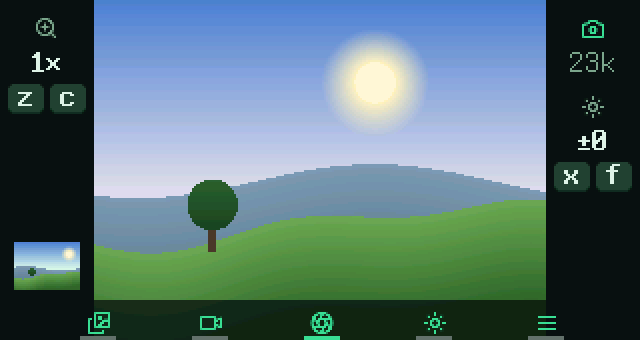
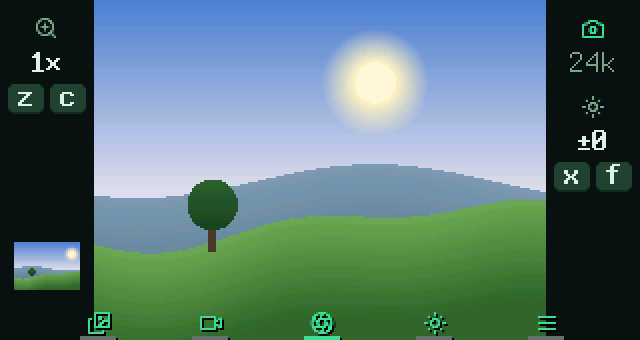
Camera's chips stand on the picture; the Store is called what it is
Over a picture the action bar has no dark band: each chip's word, icon
and bar cast a 1 px shadow. The README calls the Store a better one on
M5's catalog, not our own.

Changed region(s): [[0.125, 0.8824, 0.875, 1.0], [0.0, 0.7353, 0.125, 0.7941], [0.9062, 0.1471, 0.9375, 0.2059]]

diff --git a/crates/gh0st-ui/src/widgets.rs b/crates/gh0st-ui/src/widgets.rs
@@ -617,6 +617,12 @@ fn chip_ink(c: &mut Canvas, t: &Theme, r: Rect, ch: &Chip, ink: Color, icon_ink:
 /// the main action, red for danger. Pressed, the bar thickens and the word
 /// drops a row, as a key does. `w` is the room it may take.
 pub fn chip(c: &mut Canvas, t: &Theme, cx: i32, top: i32, ch: &Chip, w: i32) {
+    chip_on(c, t, cx, top, ch, w, false);
+}
+
+/// A chip; with `shadow`, its word, icon and bar cast a 1 px shadow, so it
+/// reads straight on a picture with nothing behind it.
+fn chip_on(c: &mut Canvas, t: &Theme, cx: i32, top: i32, ch: &Chip, w: i32, shadow: bool) {
     // A chip with a word shows the word alone: only a chip with no word
     // shows its icon.
     let bare;
@@ -640,9 +646,16 @@ pub fn chip(c: &mut Canvas, t: &Theme, cx: i32, top: i32, ch: &Chip, w: i32) {
         Look::Pressed => (k.fg, k.accent, k.accent, 3),
         Look::Busy => (k.muted, k.muted, k.muted, 2),
     };
+    let foot = top + t.m.chip_h + t.m.chip_foot;
+    if shadow {
+        let plate = theme::PICTURE_PLATE;
+        let sr = Rect::new(r.x + 1, r.y + 1, r.w, r.h);
+        chip_ink(c, t, sr, ch, plate, plate);
+        let bw = t.m.chip_bar_w;
+        c.fill(Rect::new(cx - bw / 2 + 1, foot - 1, bw, 2), plate);
+    }
     chip_ink(c, t, r, ch, ink, icon_ink);
     // The bar's foot sits `chip_foot` under the chip, wherever it is drawn.
-    let foot = top + t.m.chip_h + t.m.chip_foot;
     let bw = t.m.chip_bar_w;
     if let Look::Hold(pc) = ch.look {
         // Held, the bar runs the chip's width and fills as the hold goes.
@@ -660,22 +673,21 @@ pub fn chip(c: &mut Canvas, t: &Theme, cx: i32, top: i32, ch: &Chip, w: i32) {
 pub fn action_bar(c: &mut Canvas, t: &Theme, chips: &[Chip; 5]) {
     crate::lint::chips([1, 2, 3].map(|i| !chips[i].is_empty()));
     c.clear(hint_rect(t), t.c.bg);
-    action_chips(c, t, chips);
+    action_chips(c, t, chips, false);
 }
 
-/// The action bar over a picture: the page's background, mostly opaque,
-/// so the chips read in every palette and the picture shows through.
+/// The action bar over a picture: nothing behind the chips, so the
+/// picture shows whole. Each chip casts a shadow instead.
 pub fn action_bar_over(c: &mut Canvas, t: &Theme, chips: &[Chip; 5]) {
     crate::lint::chips([1, 2, 3].map(|i| !chips[i].is_empty()));
-    c.fill_alpha(hint_rect(t), t.c.bg, 190);
-    action_chips(c, t, chips);
+    action_chips(c, t, chips, true);
 }
 
-fn action_chips(c: &mut Canvas, t: &Theme, chips: &[Chip; 5]) {
+fn action_chips(c: &mut Canvas, t: &Theme, chips: &[Chip; 5], shadow: bool) {
     let top = t.m.height - t.m.chip_foot - t.m.chip_h;
     let w = bar_widths(t, chips);
     for (i, ch) in chips.iter().enumerate().filter(|(_, ch)| !ch.is_empty()) {
-        chip(c, t, t.m.softkey_x[i], top, ch, w[i]);
+        chip_on(c, t, t.m.softkey_x[i], top, ch, w[i], shadow);
     }
 }
 

diff --git a/README.md b/README.md
@@ -33,9 +33,9 @@ Show home as a grid or a list.
 and how many notifications wait, but never what they say. Keys pressed in a
 pocket can't unlock it, because it takes Tab and then Enter.
 
-🛍 **Our own Store.** Browse CardputerZero apps by category, install, update
-and remove them. The app list is signed, and the Store sends no account and
-no device ID.
+🛍 **A better Store.** The same CardputerZero apps as M5's Store, from a
+signed mirror of its catalog. Browse by category, search, and install,
+update or remove with real progress. It sends no account and no device ID.
 
 📷 **A new Camera.** Photos and video with zoom, exposure, a grid and a timer,
 on the CardputerZero's camera.
@@ -128,7 +128,7 @@ a faster boot, and the key training as its own app.
 
 Gh0st OS is Debian 13, built from pinned inputs in a container
 ([docs/image-build.md](docs/image-build.md)). The shell, Settings, the
-terminal, the Store, Updates and Camera are Rust. Each is a static binary of
+terminal, the Store app, Updates and Camera are Rust. Each is a static binary of
 1 to 2 MB with its fonts and icons built in, and each runs one thread with one
 `poll` loop.
 

diff --git a/docs/design.md b/docs/design.md
@@ -38,7 +38,8 @@ A page may drop either bar. Games and the terminal while typing take the
 whole 320x170. A full-screen page that keeps the menu on 8 can leave the
 bottom right corner to its ≡ chip (`Bars::full`): a rail `rail_w` (47 px)
 wide. The camera drops the top bar and lays the action bar over its
-picture (`Bars::over`), so the picture keeps all 170 rows and the icon
+picture with nothing behind the chips (`Bars::over`): each casts a 1 px
+shadow instead. The picture keeps all 170 rows and the icon
 chips over 4 to 8 still name what each key does. Its 4:3 picture leaves a
 47 px rail each side for zoom and light; nothing in the rails or on the
 picture goes below the bar's top. With no top bar, it draws its own REC
